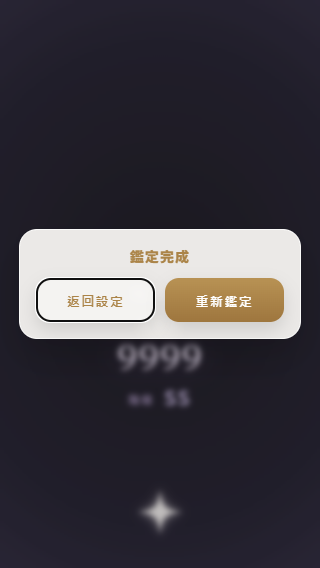
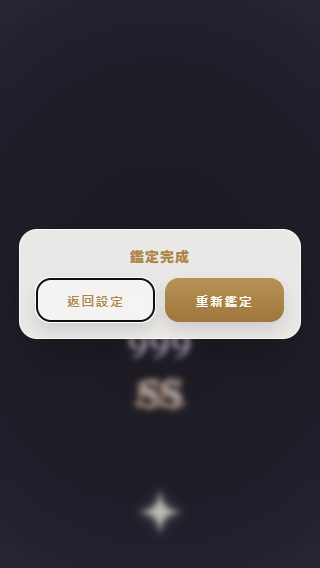
Update website

Changed region(s): [[0.3438, 0.5986, 0.6562, 0.7482]]

diff --git a/js/light-rank-growth.js b/js/light-rank-growth.js
@@ -41,9 +41,23 @@
     }
     return schedules.get(key);
   }
+  // Only the numeric climb below A is accelerated. The wing formation clock
+  // remains independent, preserving complete silhouettes and exposure settles.
+  function scanElapsed(elapsed,result){
+    const t=root.FireScanTransition.timing,time=Math.max(0,finite(elapsed));
+    const target=Math.max(1,Math.min(999,finite(result?.mana)));
+    const toA=t.scanDuration*inverseSmooth(clamp(750/target));
+    const active=Math.max(0,time-t.scanStart),fastSpan=toA/1.5;
+    if(time<=t.scanStart)return time;
+    if(active<=fastSpan)return t.scanStart+active*1.5;
+    // Ease the clock rate from 1.5x to 1x over 180 ms after reaching A.
+    const after=active-fastSpan,blend=.18,u=clamp(after/blend);
+    const extra=.5*blend*(u-u*u*u+.5*u*u*u*u);
+    return t.scanStart+toA+after+extra;
+  }
   function scan(elapsed,result){
-    const sampled=root.FireScanTransition.sample(elapsed,result);
-    return {...sampled,rank:sampled.value>=999?'SS':sampled.value>=900?'S':sampled.value>=750?'A':'—',
+    const sampled=root.FireScanTransition.sample(scanElapsed(elapsed,result),result);
+    return {...sampled,rank:sampled.rank==='—'?'E':sampled.rank,
       label:sampled.label==='火焰蓄熱'?'聖光凝聚':sampled.label};
   }
   function sample(elapsed,result,formationDuration=.8){

diff --git a/index.html b/index.html
@@ -1312,7 +1312,6 @@
     prepareFlow(result.type==='muggle'?null:names[result.element],true);
     document.body.dataset.state=STATES.STANDBY;
     settingsPage.style.display='none';animLayerEl.style.display='block';
-    document.getElementById('effectPreviewBack').hidden=false;
     onViewportChange();
     drawRevealFlow();
   }
@@ -1725,7 +1724,7 @@
     }
     if(scan)drawFireScan(scan,scanLayout);else hideFireScan();
     formalReplay.hidden=!formalReveal||(scan?(!scan.complete||(formalLight&&!lightEffects.complete)||(formalDark&&!darkEffects.complete)):state!=='REVEAL'||titleOpacity<1);
-    if(formalReveal)document.getElementById('effectPreviewBack').hidden=!formalReplay.hidden;
+    if(formalReveal)document.getElementById('effectPreviewBack').hidden=true;
   }
   function openFlowPreview(event){
     flowPreviewOrigin=event?.currentTarget||document.getElementById('flowPreviewOpen');

diff --git a/service-worker.js b/service-worker.js
@@ -1,4 +1,4 @@
-const CACHE_NAME = "mana-pwa-v3-portal-125";
+const CACHE_NAME = "mana-pwa-v3-portal-127";
 const ASSETS = [
   "./",
   "./index.html",
